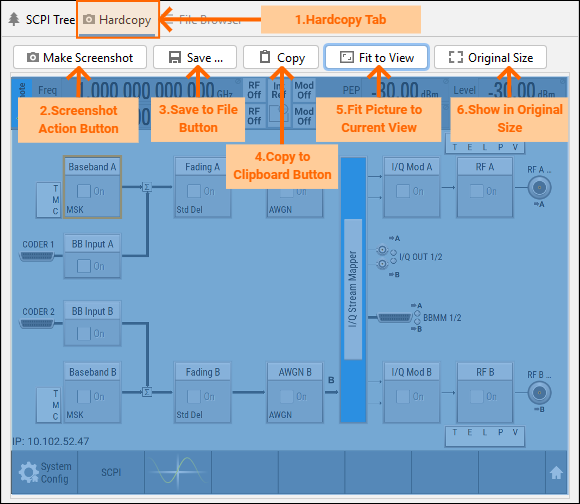
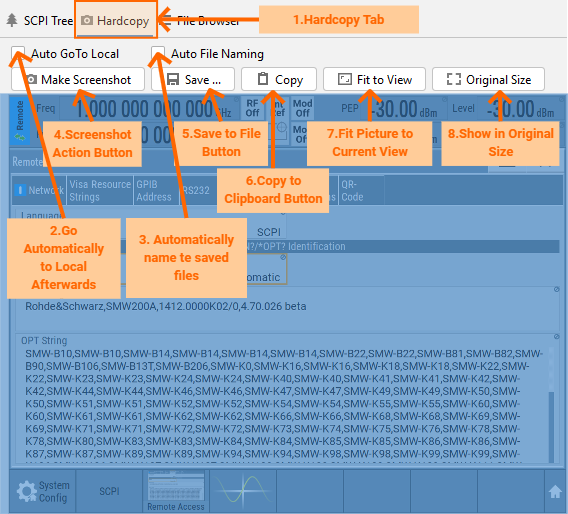
Changes for plugin version 0.9.20

diff --git a/docs/source/Chapter_11_PluginSettings.rst b/docs/source/Chapter_11_PluginSettings.rst
@@ -1,13 +1,13 @@
 .. _plugin-settings:
 
-10. Plugin Settings
+11. Plugin Settings
 =========================
 
 Here, you can find all the general settings (non-instrument specific) for the plugin.
 You can invoke it either from the :ref:`Main Instrument Panel<main-instrument-panel>`,
 or the Pycharm menu *File -> Rohde & Schwarz IC Settings*.
 
-10.1 General settings
+11.1 General settings
 """""""""""""""""""""""""""""""""""""""
 
 Contains general settings for the plugin, plus import/export features for stored data.
@@ -16,23 +16,32 @@ Contains general settings for the plugin, plus import/export features for stored
 
 Description of the controls:
 
-1. **Show Editor Context Menu Item: Show Cmd Definition** - allow for this entry in the script editor right-click context menu.
-2. **Show Editor Context Menu Item: Search Command** - allow for this entry in the script editor right-click context menu.
-3. **Export Plugin Settings** - Exports all the settings and the instruments list to a xml file.
-4. **Import Plugin Settings** - Imports the selected xml file as a plugin settings. You need to restart the IDE afterwards.
-5. **Export SCPI Tree Cache** - exports all the cached SCPI Trees to a single zip file. This way you can share or backup all the read-out SCPI Trees without a need to have each instrument physically available.
-6. **Import SCPI Tree Cache** - imports the SCPI Trees contained in the selected zip file - copies them into the plugin's cache. Overwrites the existing ones.
+1. **Check for RsInstrument Python package** - when check, the plugin checks for the updates of the RsInstrument package. Sometimes, this operation takes a long time, depending on your network infrastructure. In this case, we recommend to disable the check.
+2. **Show Editor Context Menu Item: Show Cmd Definition** - allow for this entry in the script editor right-click context menu.
+3. **Show Editor Context Menu Item: Search Command** - allow for this entry in the script editor right-click context menu.
+4. **Show Add Instrument Button at the Top** - showing the Add Instrument button on the top of the main panel is handy, if you have too many instruments in the list. Having the add button at the top saves you the scrolling down action.
+5. **Export Plugin Settings** - Exports all the settings and the instruments list to a xml file.
+6. **Import Plugin Settings** - Imports the selected xml file as a plugin settings. You need to restart the IDE afterwards.
+7. **Export SCPI Tree Cache** - exports all the cached SCPI Trees to a single zip file. This way you can share or backup all the read-out SCPI Trees without a need to have each instrument physically available.
+8. **Import SCPI Tree Cache** - imports the SCPI Trees contained in the selected zip file - copies them into the plugin's cache. Overwrites the existing ones.
 
-10.2 Instrument Panels
+11.2 Instrument Panels
 """""""""""""""""""""""
 
 Settings related to the *look-and-feel* of the Instrument Panel List (IPL).
-The chapter :ref:`Instrument Panel List<instrument-panel-list>` shows how you can adjust the instrument items.
-Names of the fields are self-explanatory.
+The chapter :ref:`Instrument Panel List<instrument-panel-list>` shows how you can use the list and change the order or items.
 
 .. image:: images/plugin_settings_instr_panels.png
 
-10.3 Instrument Tool Windows
+Description of the special controls:
+
+1. **Instruments Icon Size** - Change the icon size either with the slider or by entering the direct number.
+2. **Maximum Description Length per Row** - limits the description width, so your panel can be compact in width. Use this to prevent e.g. long Resouce Name strings to hide the action buttons.
+
+Other checkbox fields names correspond to the Instrument Panel elements. The changes have immediate effect, so you can see how your instruments list will look like.
+
+
+11.3 Instrument Tool Windows
 """""""""""""""""""""""""""""
 
 Common settings for all the ITWs.
@@ -44,10 +53,11 @@ Description of the controls:
 1. **Instruments Icon Size** - change the ITW header icon size.
 2. **Enable All Function Panels** - overrides the internal table with the information which instrument supports which feature, and enables all the function panels. Use this on you own risk...
 3. **VISA Timeout in ms for SCPI Tree reading** - maximum time the plugin waits for the instrument's response when reading the SCPI Tree. You can adjust it higher if your instrument needs more time to respond.
+4. **VISA Timeout in ms for File Browser reading** - maximum time the plugin waits for the instrument's response when performing File Browser operations. You can adjust it higher if your instrument needs more time to respond.
 
 .. _settings-scpi-code-completion:
 
-10.4 SCPI Code Completion
+11.4 SCPI Code Completion
 """"""""""""""""""""""""""
 
 Settings related to SCPI auto-completion.
@@ -68,7 +78,7 @@ Description of the controls:
 5. **Threshold for Full Commands List** - as you are completing the SCPI command, the amount of the possible suggestions decreases. When it falls below this threshold, the suggestions will contain not only the next header, but the full command up to the end.
 6. **Default Instrument for SCPI Tree** - there are cases, where you are might use script variables that do not fit any of your instrument's aliases. Such case is for example a common sub-routine serving more than one instrument. If you still want to use the SCPI code completion, you have to tell the RSIC plugin which SCPI Tree to use. You can do it here by defining a default instrument.
 
-10.5 Code Inspections
+11.5 Code Inspections
 """"""""""""""""""""""
 
 Settings affecting code inspections. Currently only one feature is supported.
@@ -81,9 +91,11 @@ Description of the controls:
 
 .. _settings-templates:
 
-10.6 Templates
+11.6 Templates
 """"""""""""""""""""""
 
-All the snippets pasted into your script can be adjusted here. Names of the fields are self-explanatory.
+All the snippets pasted into your script can be adjusted here. The Templates are split into 4 groups: General, Write, Query, File
+General, Write and Query templates are used by the SCPI Communicator to import package, create the constructors, write and query commands.
+File Templates are used by the File Browser to insert code snippets for reading / writing files to the instrument.
 
 .. image:: images/plugin_settings_templates.png

diff --git a/docs/source/Chapter_06_InstrumentsToolWindow.rst b/docs/source/Chapter_06_InstrumentsToolWindow.rst
@@ -30,12 +30,12 @@ SCPI Communicator contains controls for connecting and communicating with your i
 Description of the controls:
 
 1. **History of Sent Commands** - keeps list of all the commands used in the past, plus standard commands. Right-click to delete the history items.
-2. **Connect/Disconnect Button** - toggle button for connecting and disconnecting to the instrument. When connected, multiple functions of the ITW become available.
+2. **Connect/Disconnect Button** - toggle button for connecting and disconnecting to the instrument. When connected, multiple functions of the ITW become available. Right-click allows for sending GoToLocal or GoToRemote signal.
 3. **SCPI Logger Toggle Button** - opens/closes SCPI Logger Tool Window. The Logger logs entire communication with your instrument coming from the plugin, and optionally from your python script (for that, you need to `switch on logging to UDP <https://rsinstrument.readthedocs.io/en/latest/StepByStepGuide.html#logging>`_)
 4. **Paste import and constructor snippet** - pastes an RsInstrument import statement, plus the instrument's constructor snippet to your currently opened python script.
 5. **Paste current SCPI snippet** - adding the selected write/query operation to your currently opened python script. For example: ``smw.write('*RST')``. You can see the preview of the snippet and the paste position when you hover over the button.
 6. **Communication Action Button** - sends/queries the current SCPI command (Field 10) to the instrument. The button changes its function based on the command type (write/query). Additionally, you can select the mode with the Field 7.
-7. **Communication Action Selector** - select the type of write/query action - standard, with OPC, query binary data.
+7. **Communication Action Selector** - select the type of write/query action - standard, with OPC, query binary data. The setting is persistent.
 8. **Save Binary Response to File** - this button is enabled, when you have received a binary response from the instrument.
 9. **Copy Response to Clipboard** - enabled when the SCPI Response Field (Field 12) is non-empty.
 10. **SCPI Command Field with Auto-completion** - write your SCPI command here. If your instrument has a SCPI Tree available (see :ref:`function-panel-scpi-tree`), this field offers you auto-completion for SCPI commands.

diff --git a/docs/source/Chapter_08_FunctionPanelHardcopy.rst b/docs/source/Chapter_08_FunctionPanelHardcopy.rst
@@ -8,8 +8,10 @@ Hardcopy is a function that captures content of the instrument's screen. Our plu
 Description of the controls:
 
 1. **Function Panel Hardcopy Tab** - select this tab to access Hardcopy features.
-2. **Screenshot Action Button** - requires active connection (see SCPI Communicator). If connected, this button starts the screenshot acquisition and transfer to your computer.
-3. **Save to File Button** - available after the successful screenshot acquisition, allows saving the picture in **jpg** or **png** format and original size.
-4. **Copy to Clipboard Button** - copies the file to Clipboard in original size.
-5. **Fit to View** - automatically performed after the successful screenshot acquisition. Adjust the picture size to fit the view with limited width or height. Also does zoom > 1:1.
-6. **Show in Original Size** - changes the picture back to the original size and activates the view pane's scroll controls if necessary.
+2. **Go Automatically to Local Afterwards** - after the screenshot is done, the instrument goes to local.
+3. **Auto File Naming** - if checked, you do not need to enter new name by each "Save", you only enter it once, and the further ones are then auto-named with name suffix indexes _001,_002,_003 and so on...
+4. **Screenshot Action Button** - requires active connection (see SCPI Communicator). If connected, this button starts the screenshot acquisition and transfer to your computer.
+5. **Save to File Button** - available after the successful screenshot acquisition, allows saving the picture in **jpg** or **png** format and original size.
+6. **Copy to Clipboard Button** - copies the file to Clipboard in original size.
+7. **Fit to View** - automatically performed after the successful screenshot acquisition. Adjust the picture size to fit the view with limited width or height. Also does zoom > 1:1.
+8. **Show in Original Size** - changes the picture back to the original size and activates the view pane's scroll controls if necessary.

diff --git a/docs/source/Chapter_09_FunctionPanelFileBrowser.rst b/docs/source/Chapter_09_FunctionPanelFileBrowser.rst
@@ -1,0 +1,17 @@
+9. Function Panel File Browser
+==============================
+
+File browser is a handy feature that allows you to seamlessly copy files between you computer and your instrument, or even between two of your instruments.
+The usage is just like your standard file explorer - copy / paste with CTRL+C / CTRL+V, double-click to open the file in Pycharm.
+The File Browser also allows for management of the instrument file system - copying, renaming, deleting, moving of files, creating folders...
+Check out the items context-menu to see which features are available for which item or group of items.
+
+.. image:: images/func_panel_file_browser.png
+
+Description of the controls:
+
+1. **Function Panel File Browser** - select this tab to access File Browser features.
+2. **Complete Refresh of the File Structure** - start from the beginning, read fresh file tree from the instrument.
+3. **Go to Home Folder** - navigates through the file structure to your home folder. You can change the home folder by right-clicking on the button.
+4. **Stop Running Operations** - sometimes reading of folder consist of many small tasks that can take a long time. You can interrupt them with this button.
+5. **Selected File Contenxt menu** - Example of the context menu for a single file. The context menu differs for multiple files selection, or a folder selection. Multiple folders selection has no context menu available.

diff --git a/docs/source/Chapter_10_WritingPythonScript.rst b/docs/source/Chapter_10_WritingPythonScript.rst
@@ -1,4 +1,4 @@
-9. Writing Python Script
+10. Writing Python Script
 =========================
 
 .. tip::
@@ -21,7 +21,7 @@ This is going to be the script variable name for our object:
     This is then used in cases where your script variable name does not fit any instrument alias.
     See the :ref:`settings-scpi-code-completion`.
 
-9.1 SCPI Communicator paste function
+10.1 SCPI Communicator paste function
 """""""""""""""""""""""""""""""""""""
 
 Once again, the important controls of the SCPI Communicator for the purpose of this chapter:
@@ -49,7 +49,7 @@ Next, enter the ``*IDN?`` to the *Field 10*, and hit the *Field 5 (Paste to Scri
 .. tip::
     You can change the format of the pasted code with templates in :ref:`settings-templates`.
 
-9.2 Auto-completion in script
+10.2 Auto-completion in script
 """"""""""""""""""""""""""""""
 
 Another way to write your SCPI script is the SCPI auto-completion feature. SCPI auto-completion works with script call expressions, where the origin object name is your instrument alias,
@@ -60,7 +60,7 @@ and the method contains an argument of string-type. Type (do not copy/paste) for
 .. tip::
     You can force the auto-completion window to pop up with the keyboard combo **CTRL+SPACE**
 
-9.3 Search in the script
+10.3 Search in the script
 """""""""""""""""""""""""
 
 The last option is to use right-click context menu:

diff --git a/docs/source/Chapter_01_Introduction.rst b/docs/source/Chapter_01_Introduction.rst
@@ -15,4 +15,5 @@ It is optimized, although not exclusive to be used with our `RsInstrument Python
     - SCPI Tree - you can read out all the SCPI commands supported by your instrument.
     - SCPI commands auto-completion - the plugin helps you to write your SCPI commands faster and error-free.
     - Hardcopy screenshot - quickly make screenshot of your instrument's screen and save it to your PC.
+    - File Browser - use CTRL+C / CTRL+V to seamlessly transfer files from / to instrument or between instruments.
     - More interesting features coming in the future...

diff --git a/docs/source/GettingStarted.rst b/docs/source/GettingStarted.rst
@@ -11,8 +11,9 @@ Welcome to the RsIC Getting Started
 .. include:: Chapter_06_InstrumentsToolWindow.rst
 .. include:: Chapter_07_FunctionPanelScpiTree.rst
 .. include:: Chapter_08_FunctionPanelHardcopy.rst
-.. include:: Chapter_09_WritingPythonScript.rst
-.. include:: Chapter_10_PluginSettings.rst
+.. include:: Chapter_09_FunctionPanelFileBrowser.rst
+.. include:: Chapter_10_WritingPythonScript.rst
+.. include:: Chapter_11_PluginSettings.rst
 
 
 .. toctree::

diff --git a/docs/source/Chapter_02_Installation.rst b/docs/source/Chapter_02_Installation.rst
@@ -9,7 +9,7 @@ In Pycharm, go to menu *File -> Settings -> Plugins* and choose *Install Plugin 
 
 .. image:: images/menu_install_from_marketplace.png
 
-Select the zip file with the plugin, e.g.: ``RsConnectivityPycharmPlugin-0.9.15.zip``
+Select the zip file with the plugin, e.g.: ``RsConnectivityPycharmPlugin-0.9.20.zip``
 
 After that, you have to restart the Pycharm IDE.
 

diff --git a/docs/source/Chapter_04_AddingFirstInstrument.rst b/docs/source/Chapter_04_AddingFirstInstrument.rst
@@ -3,7 +3,7 @@
 4. Adding your first Instrument
 ================================
 
-Click on ``+Add new Instrument`` button, and the following dialog comes up:
+Click on ``+Add new Instrument`` button (either one), and the following dialog comes up:
 
 .. image:: images/add_new_instrument.png
 
